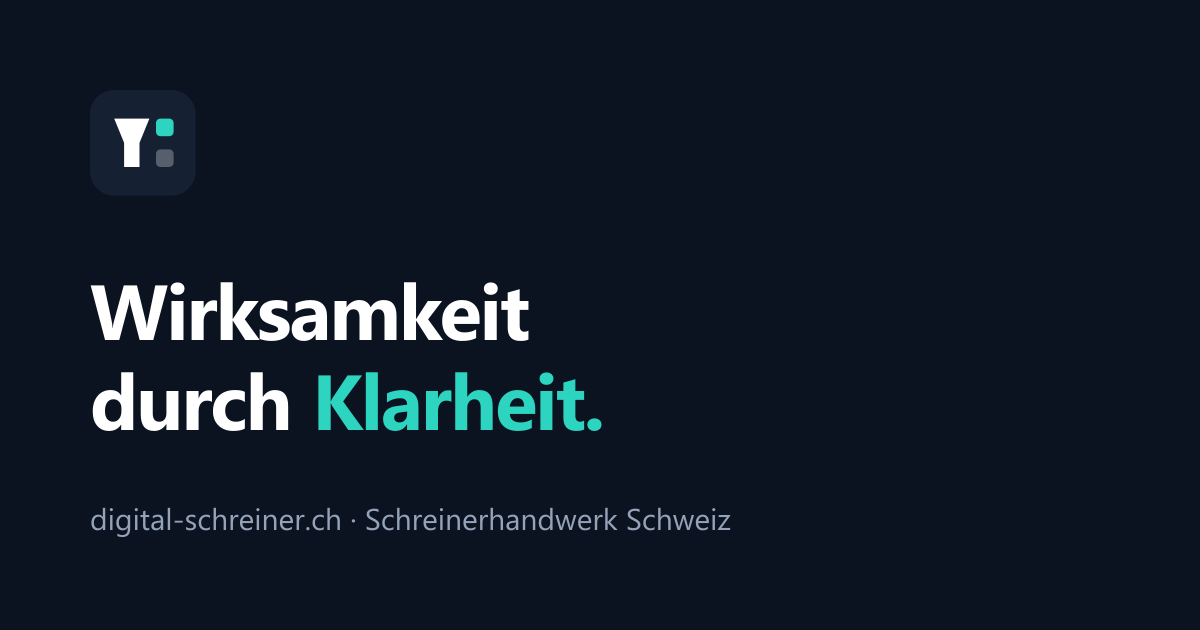
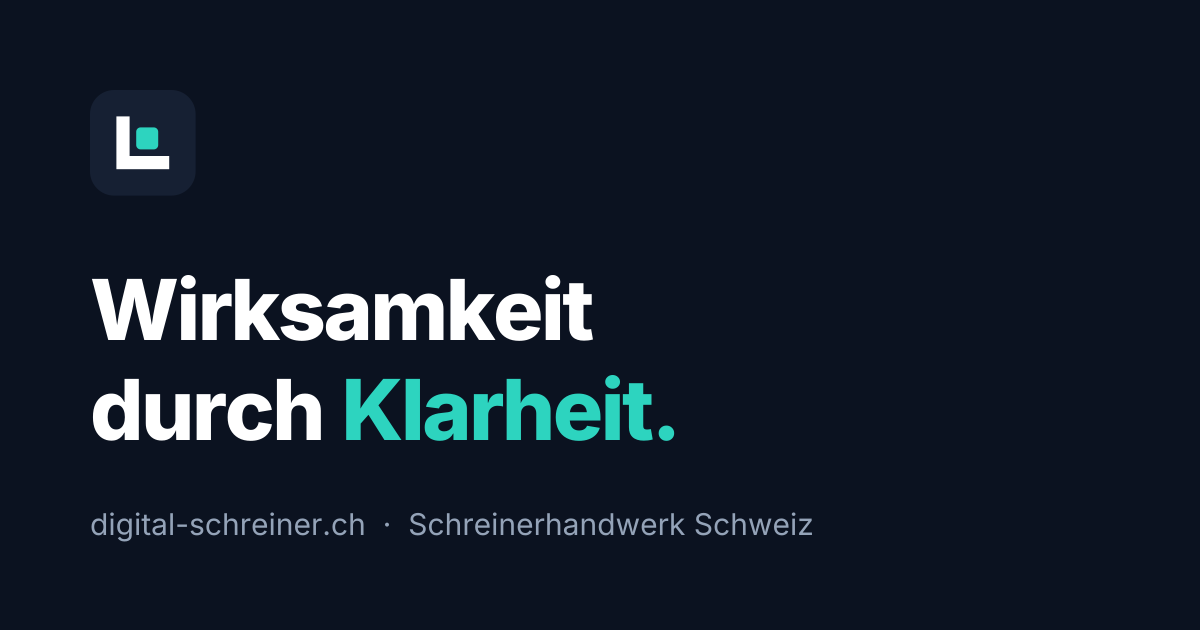
feat: brand identity, legal pages (impressum/datenschutz), remove welcome post

diff --git a/src/styles/global.css b/src/styles/global.css
@@ -21,10 +21,8 @@ img { max-width: 100%; height: auto; border-radius: var(--radius); display: bloc
 /* Header */
 .site-header { position: sticky; top: 0; z-index: 10; background: rgba(255,255,255,.85); backdrop-filter: saturate(180%) blur(12px); border-bottom: 1px solid var(--line); }
 .nav { display: flex; justify-content: space-between; align-items: center; height: 68px; }
-.logo { display: flex; align-items: center; gap: .65rem; text-decoration: none; color: var(--ink); font-size: 1.15rem; letter-spacing: -.02em; }
-.logo svg { width: 34px; height: 34px; }
-.logo b { font-weight: 700; }
-.logo span { color: var(--accent); }
+.logo { display: inline-flex; align-items: center; text-decoration: none; }
+.site-logo { height: 32px; width: auto; border-radius: 0; display: block; }
 nav a { margin-left: 1.75rem; text-decoration: none; color: var(--muted); font-weight: 500; font-size: .95rem; }
 nav a:hover { color: var(--ink); }
 
@@ -64,10 +62,22 @@ article th, article td { border-bottom: 1px solid var(--line); padding: .65rem .
 article code { background: var(--soft); border: 1px solid var(--line); padding: .1rem .35rem; border-radius: 5px; font-size: .9em; }
 
 /* Footer */
-.site-footer { background: var(--ink); color: #94A3B8; padding: 3rem 0; font-size: .9rem; }
-.site-footer .container { display: flex; justify-content: space-between; flex-wrap: wrap; gap: 1rem; }
-.site-footer strong { color: #fff; font-weight: 600; }
-.site-footer a { color: var(--accent-bright); }
+.site-footer { background: var(--ink); color: #94A3B8; padding: 3.5rem 0 3rem; font-size: .9rem; border-top: 1px solid rgba(255,255,255,.08); }
+.footer-inner { display: flex; justify-content: space-between; align-items: flex-start; flex-wrap: wrap; gap: 2rem; }
+.footer-brand { display: flex; flex-direction: column; gap: .6rem; }
+.footer-logo-link { display: inline-block; text-decoration: none; }
+.footer-logo { height: 28px; width: auto; border-radius: 0; display: block; }
+.footer-claim { margin: 0; color: #94A3B8; font-size: .9rem; }
+.footer-meta { display: flex; flex-direction: column; align-items: flex-end; gap: .75rem; }
+.footer-nav { display: flex; flex-wrap: wrap; gap: 1.25rem; }
+.footer-nav a { color: #CBD5E1; text-decoration: none; font-weight: 500; font-size: .9rem; transition: color .15s ease; }
+.footer-nav a:hover { color: var(--accent-bright); }
+.footer-copy { margin: 0; color: #64748B; font-size: .85rem; }
+
+@media (max-width: 640px) {
+  .footer-inner { flex-direction: column; align-items: flex-start; }
+  .footer-meta { align-items: flex-start; }
+}
 
 /* Author box */
 .author-box { display: flex; gap: 1.25rem; align-items: flex-start; margin-top: 4rem; padding: 1.75rem; background: var(--soft); border: 1px solid var(--line); border-radius: var(--radius); }

diff --git a/src/pages/llms.txt.js b/src/pages/llms.txt.js
@@ -17,6 +17,8 @@ ${posts.map((p) => `- [${p.data.title}](${SITE.url}/blog/${p.id}/): ${p.data.des
 ## Weitere Seiten
 
 - [Über den Autor](${SITE.url}/ueber/)
+- [Impressum](${SITE.url}/impressum/)
+- [Datenschutz](${SITE.url}/datenschutz/)
 - [RSS-Feed](${SITE.url}/rss.xml)
 `;
   return new Response(body, { headers: { 'Content-Type': 'text/plain; charset=utf-8' } });

diff --git a/src/site.ts b/src/site.ts
@@ -9,4 +9,6 @@ export const AUTHOR = {
   name: 'Thomas Ruf',
   jobTitle: 'Schreinermeister',
   bio: 'Schreinermeister und ehemaliger Spitzensportler. Ich schreibe darüber, wie Schweizer Schreinereien mit klaren Prozessen und sinnvoller Digitalisierung wirksamer werden.',
+  email: 'kontakt@digital-schreiner.ch',
+  location: 'Schweiz',
 };
